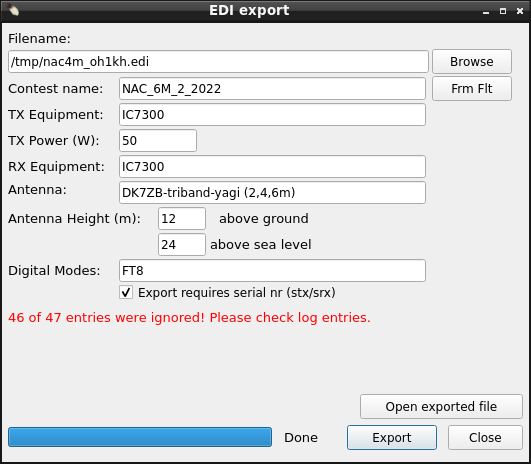
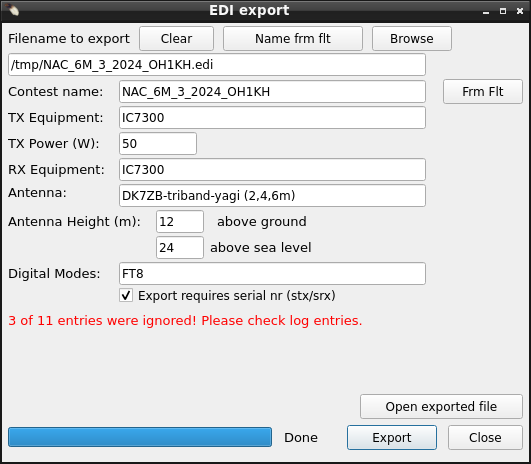
Contest:Fix/Add: Exported filename settings for cbr and edi improved

Changed region(s): [[0.0, 0.0603, 0.9642, 0.7241], [0.4821, 0.0603, 0.6328, 0.1207], [0.0, 0.5733, 0.1808, 0.6034]]

diff --git a/src/changelog.html b/src/changelog.html
@@ -11,6 +11,8 @@
     <strong>Alpha test version of CQRLOG 2.6.0 (126)</strong><br>
     New in this alpha version (not in official version):<br>
     <ul style="list-style: square;text-align:left; color: green;" >
+    <li>Contest:Fix/Add: Exported filename settings for cbr and edi improved</li>
+    <li>Some of compiler warnings fixed. Some member lists updated</li>
     <li>ADIF:import:Fix: Parsing error with tags having UTF8 characters</li>
     <li>Preferences:Membership:Load:Fix: Error message more informative. Helps finding error line from long membership text file</li>
     <li>(125)</li>
